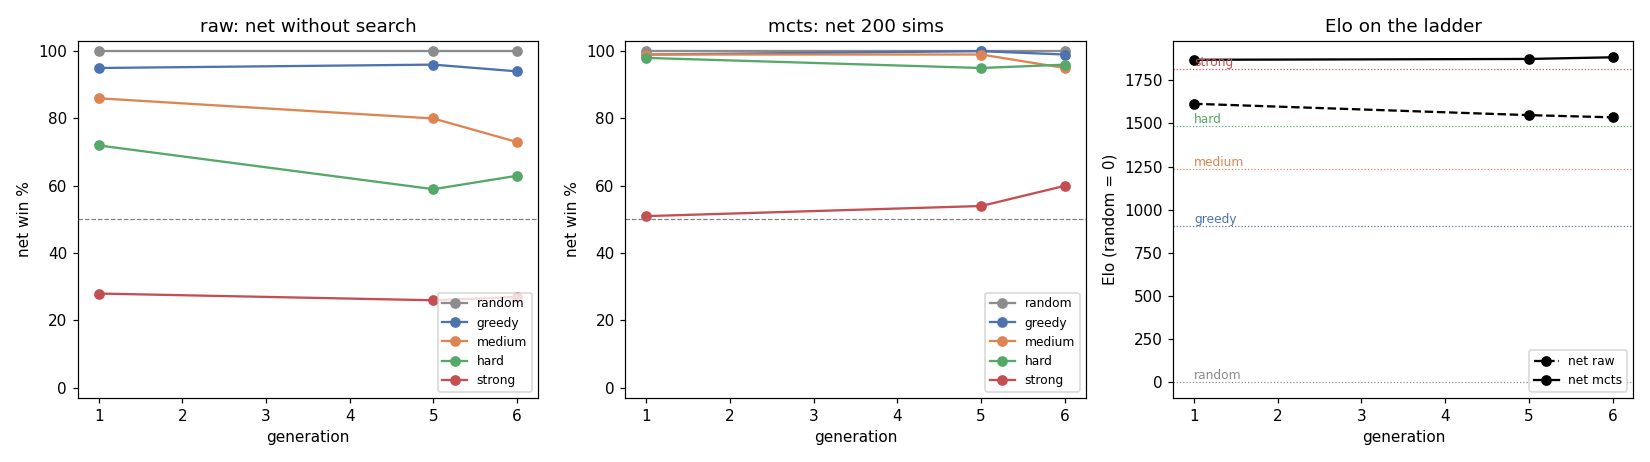
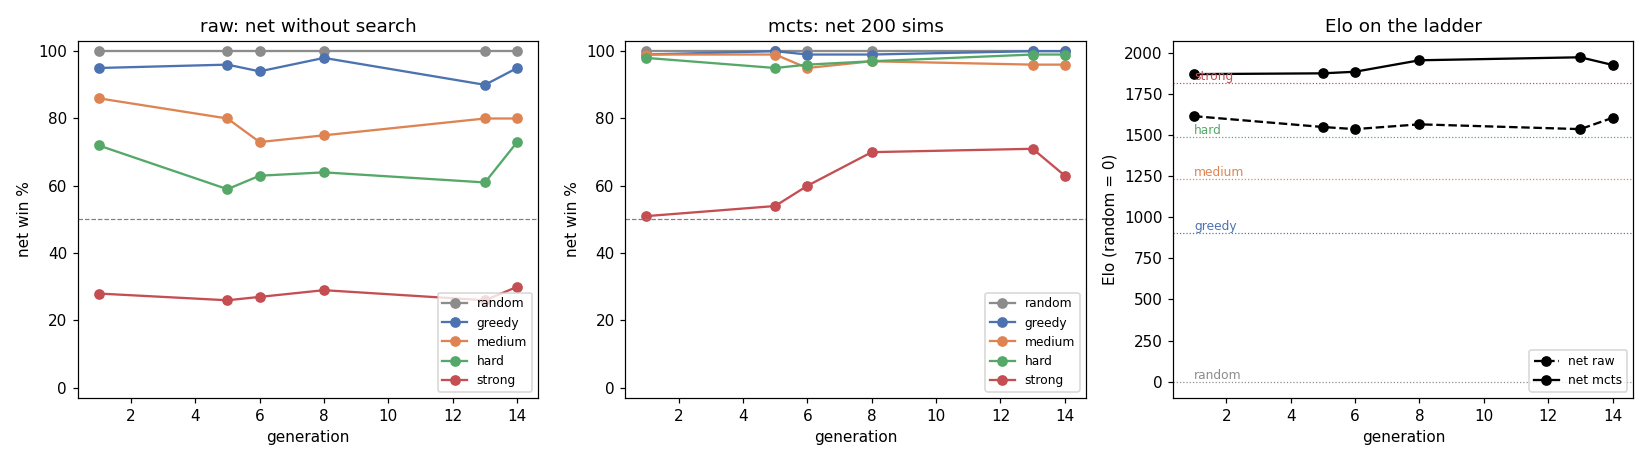
overnight: correct the probe snapshot numbers

diff --git a/docs/az5b_ladder.md b/docs/az5b_ladder.md
@@ -1,6 +1,6 @@
 # AlphaZero 5x5 (az5b) — ladder per accepted generation
 
-Generated by `scripts/az_eval.py` from `runs/az5b` (2026-10-24 12:41). Win % of the net, 100 games per cell, first mover alternating; raw = policy argmax without search, mcts = 200 simulations. Elo: Bradley-Terry vs the fixed ladder anchors, random = 0. strong here: {'node_budget': 23000}.
+Generated by `scripts/az_eval.py` from `runs/az5b` (2026-10-24 15:05). Win % of the net, 100 games per cell, first mover alternating; raw = policy argmax without search, mcts = 200 simulations. Elo: Bradley-Terry vs the fixed ladder anchors, random = 0. strong here: {'node_budget': 23000}.
 
 Anchor Elo (from the 200-game ladder in docs/results.md): random 0, greedy 905, easy 888, medium 1235, hard 1488, strong 1815.
 
@@ -9,3 +9,6 @@ Anchor Elo (from the 200-game ladder in docs/results.md): random 0, greedy 905, 
 | 1 | 72 | 100 | 95 | 86 | 72 | 28 | 1614 | 100 | 99 | 99 | 98 | 51 | 1870 |
 | 5 | 58 | 100 | 96 | 80 | 59 | 26 | 1549 | 100 | 100 | 99 | 95 | 54 | 1875 |
 | 6 | 56 | 100 | 94 | 73 | 63 | 27 | 1536 | 100 | 99 | 95 | 96 | 60 | 1885 |
+| 8 | 55 | 100 | 98 | 75 | 64 | 29 | 1565 | 100 | 99 | 97 | 97 | 70 | 1954 |
+| 13 | 58 | 100 | 90 | 80 | 61 | 26 | 1536 | 100 | 100 | 96 | 99 | 71 | 1972 |
+| 14 | 68 | 100 | 95 | 80 | 73 | 30 | 1604 | 100 | 100 | 96 | 99 | 63 | 1926 |

diff --git a/docs/overnight.md b/docs/overnight.md
@@ -377,5 +377,5 @@ Ideas for later:
   az5b numbers its generations from 1 again. az_eval.py now calls it after
   each evaluated generation; az5 (21 gens) and az5b (gens 1-14) were
   backfilled (~3 s per generation). On the 16 parity positions the raw
-  policy stays near flat in every generation (raw 3-13/20 overall, mostly
-  the dd ones), MCTS goes 6/20 (az5 gen 1) -> 16 (gen 14) -> 20 (gen 17).
+  policy stays near flat: argmax right 5-7/16 from az5 gen 1 to az5b gen
+  14; MCTS 4/16 (az5 gen 1) -> 16/16 (az5 gen 17), 15-16 since.
